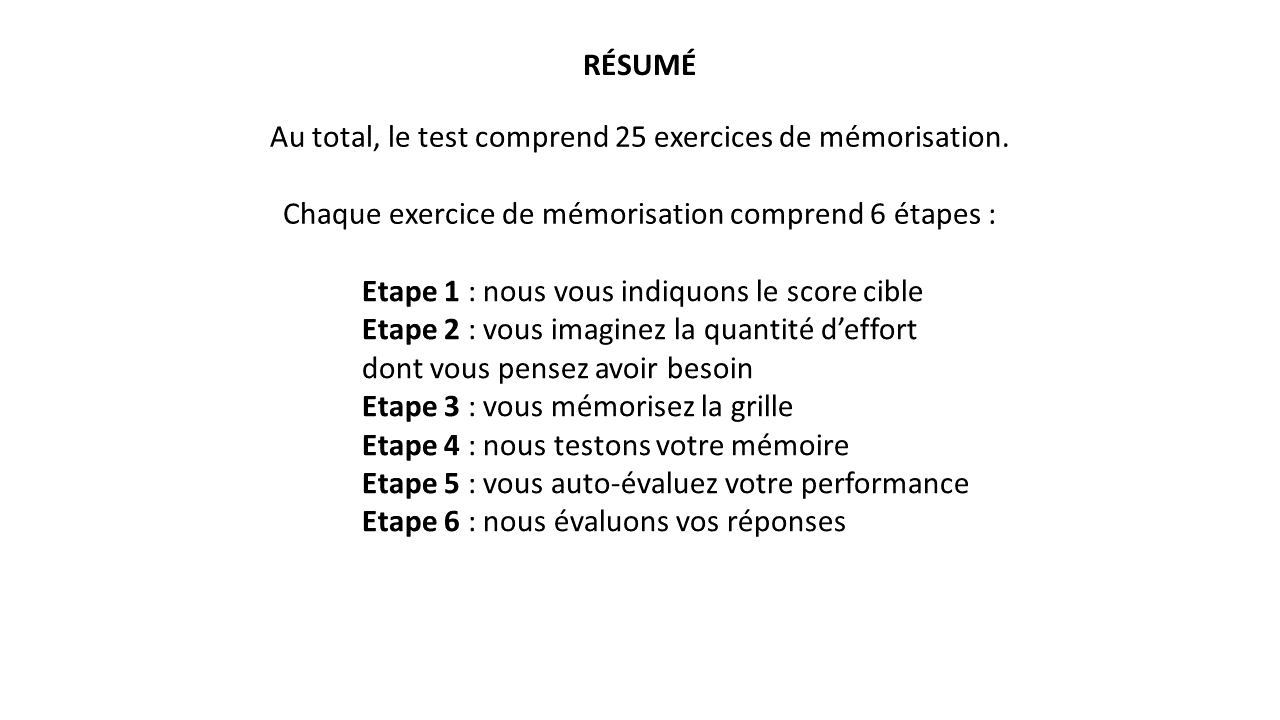
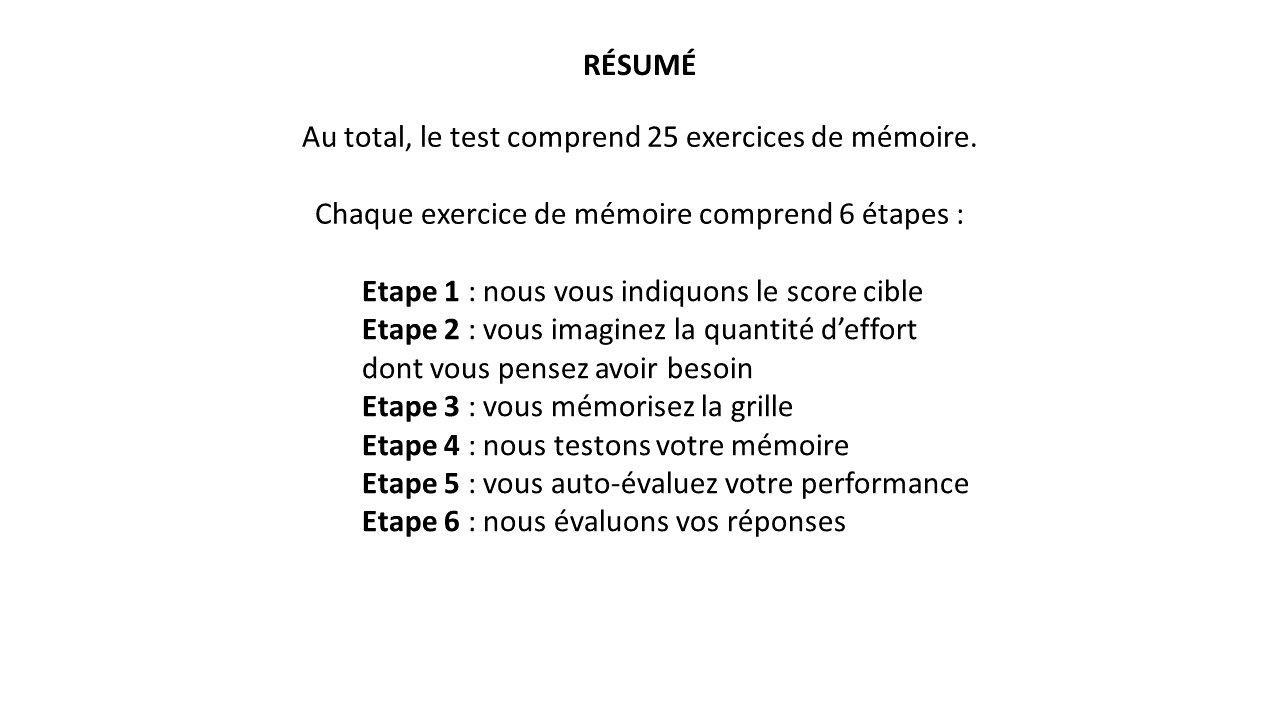
final changes to text

Changed region(s): [[0.2188, 0.275, 0.7812, 0.3361], [0.2188, 0.1528, 0.7812, 0.2139]]

diff --git a/src/SE_glioma/SE_instruction_video.js b/src/SE_glioma/SE_instruction_video.js
@@ -15,7 +15,7 @@ function SE_instruction_video(){
   var summary = {
     type: 'html-keyboard-response-WH',
     stimulus: '<p>Ce test dure environs 55 minutes.</p><p>Il s&#39agit d&#39un test mesurant votre capacité à auto-évaluer correctement votre fonctionnement mental.'+
-    'C&#39est ce qu&#39on appelle la métacognition.</p><p>En résumé, vous allez effectuer une série d&#39exercices de mémoire. Ces exercices seront plus ou moins difficiles. Pour chacun d&#39entre eux, nous vous demanderons d&#39auto-évaluer votre performance.</p>'
+    ' C&#39est ce qu&#39on appelle la métacognition.</p><p>En résumé, vous allez effectuer une série d&#39exercices de mémoire. Ces exercices seront plus ou moins difficiles. Pour chacun d&#39entre eux, nous vous demanderons d&#39auto-évaluer votre performance.</p>'
   };
 
 
@@ -93,7 +93,7 @@ function SE_instruction_video(){
 
   var flip1 = {
     type: 'html-keyboard-response-WH',
-    stimulus: 'Pendant la phase de mémorisation, nous vous montrerons la grille et vous devrez mémoriser les paires de chiffres. Voici un nouveau exemple de la grille.'
+    stimulus: 'Pendant la phase de mémorisation, nous vous montrerons la grille et vous devrez mémoriser les paires de chiffres. Voici un nouvel exemple de la grille.'
   };
 
   var flip2 = {
@@ -124,7 +124,7 @@ function SE_instruction_video(){
     stimulus: '<p>Souhaitez-vous revoir la grille ?</p><p>Le score cible pour cet exercice est: <b>5</b>.</p>',
     choices: ['Oui','Non'],
     prompt: '<p>Vous avez vu la grille <b>3</b> fois.</p><br>'+
-    '<p>Si vous ne souhaitez plus revoir la grille, cliquez sur le bouton « Non » et passer à la phase de test.</p>'
+    '<p>Si vous ne souhaitez plus revoir la grille, cliquez sur le bouton « Non » pour passer à la phase de test.</p>'
   };
 
   var rewatch4 = {
@@ -132,7 +132,7 @@ function SE_instruction_video(){
     stimulus: '<p>Souhaitez-vous revoir la grille ?</p><p>Le score cible pour cet exercice est: <b>5</b>.</p>',
     choices: ['Oui','Non'],
     prompt: '<p>Vous avez vu la grille <b>3</b> fois.</p><br>'+
-    '<p>Note: vous avez 8 secondes seulement pour répondre, après quoi la phase de phase de test démarrera...</p>'
+    '<p>Note: vous avez 8 secondes seulement pour répondre, après quoi la phase de test démarrera...</p>'
   };
 
   var target_i      = [[null,null],[null,null],[null,null],[null,null],[null,null]]; // for indexing the location of the target image
